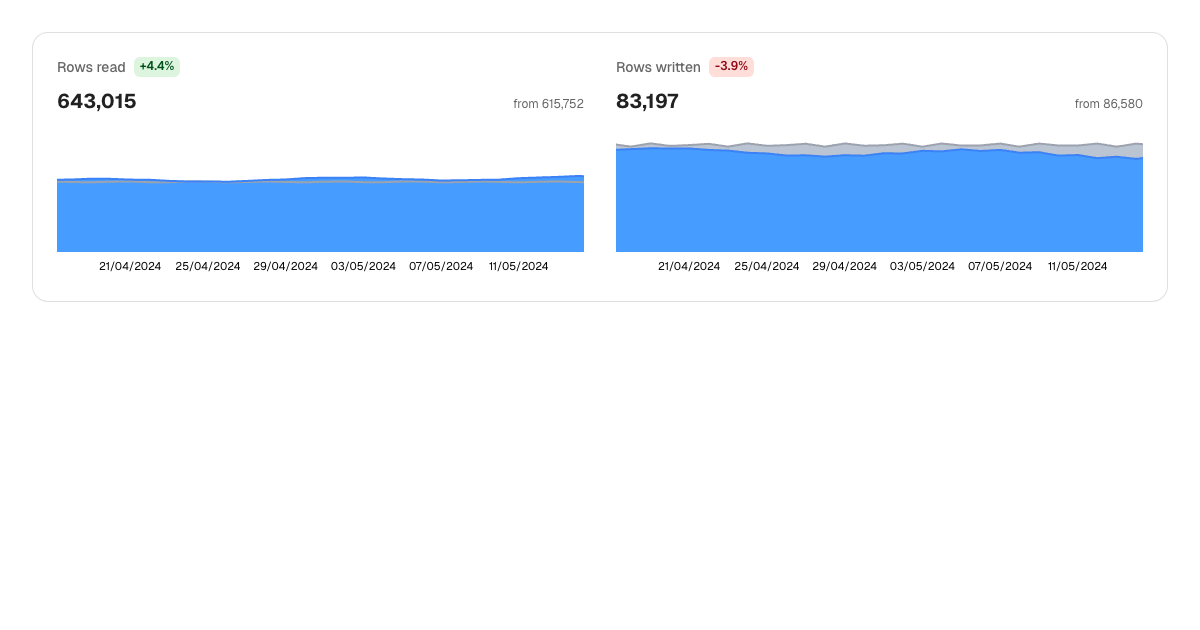
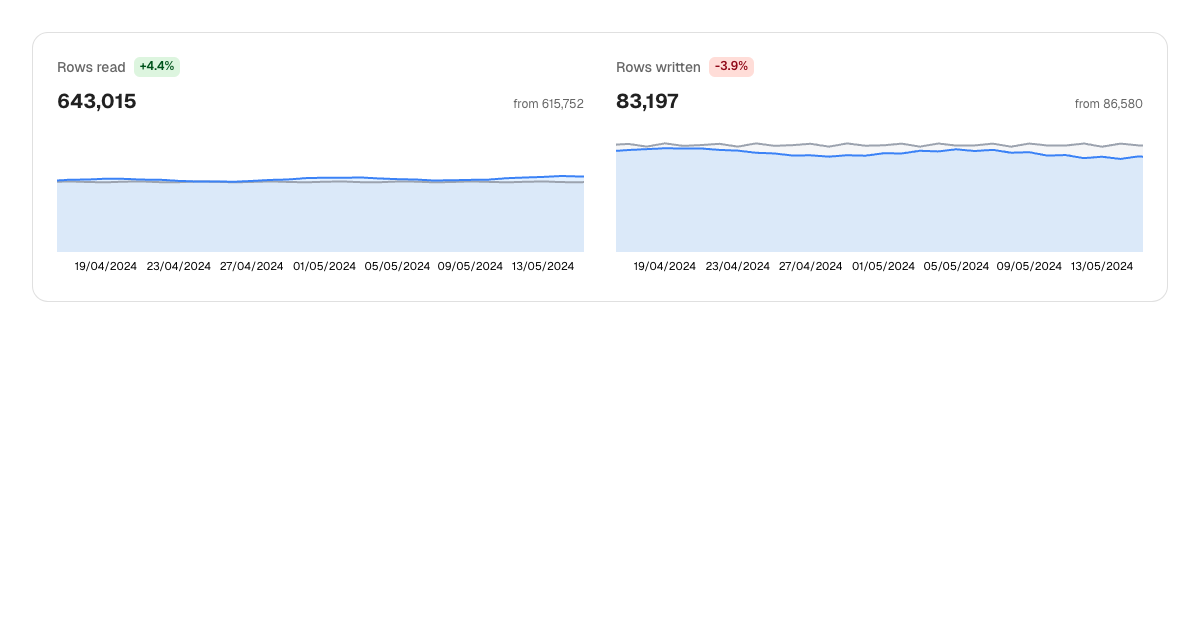
chore: regenerate visual baselines + OG on master base

Changed region(s): [[0.0308, 0.2111, 0.9558, 0.4524]]

diff --git a/apps/website/registry/components/card-team/card-team.tsx b/apps/website/registry/components/card-team/card-team.tsx
@@ -1,11 +1,13 @@
 "use client";
 import React from "react";
+
 import Avatar from "@mui/material/Avatar";
 import AvatarGroup from "@mui/material/AvatarGroup";
 import Box from "@mui/material/Box";
 import Button from "@mui/material/Button";
 import Grid from "@mui/material/Grid";
 import { styled } from "@mui/material/styles";
+
 import { getInfoApexStyles } from "../info-apex/info-apex.styles";
 import { Info } from "../info-basic/info";
 import { InfoSubtitle } from "../info-basic/info-subtitle";

diff --git a/apps/website/registry/blocks/database-metrics-card/database-metrics-card.tsx b/apps/website/registry/blocks/database-metrics-card/database-metrics-card.tsx
@@ -1,6 +1,7 @@
 "use client";
 
 import * as React from "react";
+
 import Box from "@mui/material/Box";
 import Card from "@mui/material/Card";
 import Chip from "@mui/material/Chip";

diff --git a/apps/website/registry/blocks/portfolio-value-chart/portfolio-value-chart.tsx b/apps/website/registry/blocks/portfolio-value-chart/portfolio-value-chart.tsx
@@ -1,6 +1,7 @@
 "use client";
 
 import * as React from "react";
+
 import Box from "@mui/material/Box";
 import Card from "@mui/material/Card";
 import Stack from "@mui/material/Stack";